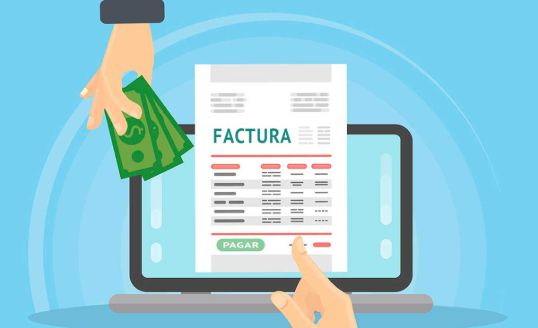
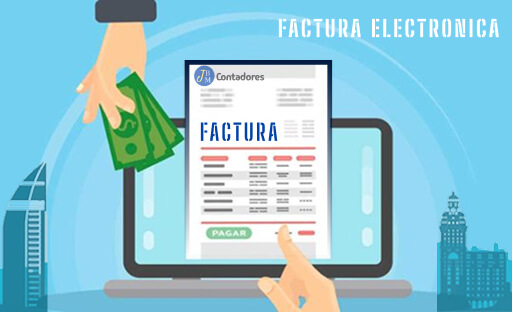
Feasture Blog in heard

diff --git a/src/content/homepage/index.md b/src/content/homepage/index.md
@@ -1,7 +1,7 @@
 ---
 banner:
   title: Contabilidad Confiable / Soluciones Fiscales a tu Medida
-  content: Estamos para ayudarte con la  __liquidación de sueldos, declaraciones juradas, asesoría laboral y tributaria__. Gestionamos tus obligaciones ante **DGI, BPS y MTSS**, optimizando costos y reduciendo riesgos..
+  content: Estamos para ayudarte con la  __liquidación de sueldos, declaraciones juradas, asesoría laboral y tributaria__. Gestionamos tus obligaciones ante **DGI, BPS y MTSS**.
 
   image: /images/banner-art.png
   button:
@@ -22,14 +22,14 @@ services:
       label: Más
       link: /contact
 
-  - title: "Somos una empresa privada de servicios contables y financieros."
-    content: "Nos especializamos en ofrecer soluciones contables y financieras personalizadas para empresas y particulares. Gestionamos impuestos, elaboramos estados financieros y brindamos asesoría fiscal con la máxima precisión y cumplimiento normativo."
+  - title: "No sabías ? El plazo para sumarse a la facturación electrónica venció el 31/12/2024?"
+    content: "Si tenés un emprendimiento en Uruguay, este 2025 comienza con un cambio importante: todos los contribuyentes de IVA (incluidos los de IVA mínimo) deberán ser emisores electrónicos desde el momento en que se inscriban, reinicien actividades o se conviertan en contribuyentes. Con excepción por ahora, los Monotributistas y quienes aportan al Monotributo Social MIDES."
     images:
       - "/src/assets/service-slide-1.png"
     button:
       enable: true
-      label: Más
-      link: /contact
+      label: Noticia
+      link: /blog/blog-2
 
 # workflow
 workflow:

diff --git a/src/content/blog/blog-2.md b/src/content/blog/blog-2.md
@@ -1,5 +1,5 @@
 ---
-title: No sabías? El plazo para sumarse a la facturación electrónica venció el 31/12/2024?
+title: No sabías ? El plazo para sumarse a la facturación electrónica venció el 31/12/2024?
 description: "¿Ya estás listo para la facturación electrónica? ¡Cumplir con la normativa de la DGI nunca fue tan sencillo!"
 image: "/images/blog-5.jpg"
 date: 2022-08-04T05:00:00Z
@@ -11,8 +11,6 @@ draft: false
 <!-- Aquí te presentamos **las tendencias clave que no puedes ignorar** si estás interesado en el mundo de las criptomonedas. -->
 
 ---
-
-## **¿Ya estás listo para la facturación electrónica? ¡Cumplir con la normativa de la DGI nunca fue tan sencillo!**
 
 Si tenés un emprendimiento en Uruguay, este 2025 comienza con un cambio importante: todos los contribuyentes de IVA (incluidos los de IVA mínimo) deberán ser emisores electrónicos desde el momento en que se inscriban, reinicien actividades o se conviertan en contribuyentes. Con excepción por ahora, los Monotributistas y quienes aportan al Monotributo Social **MIDES**.
 
